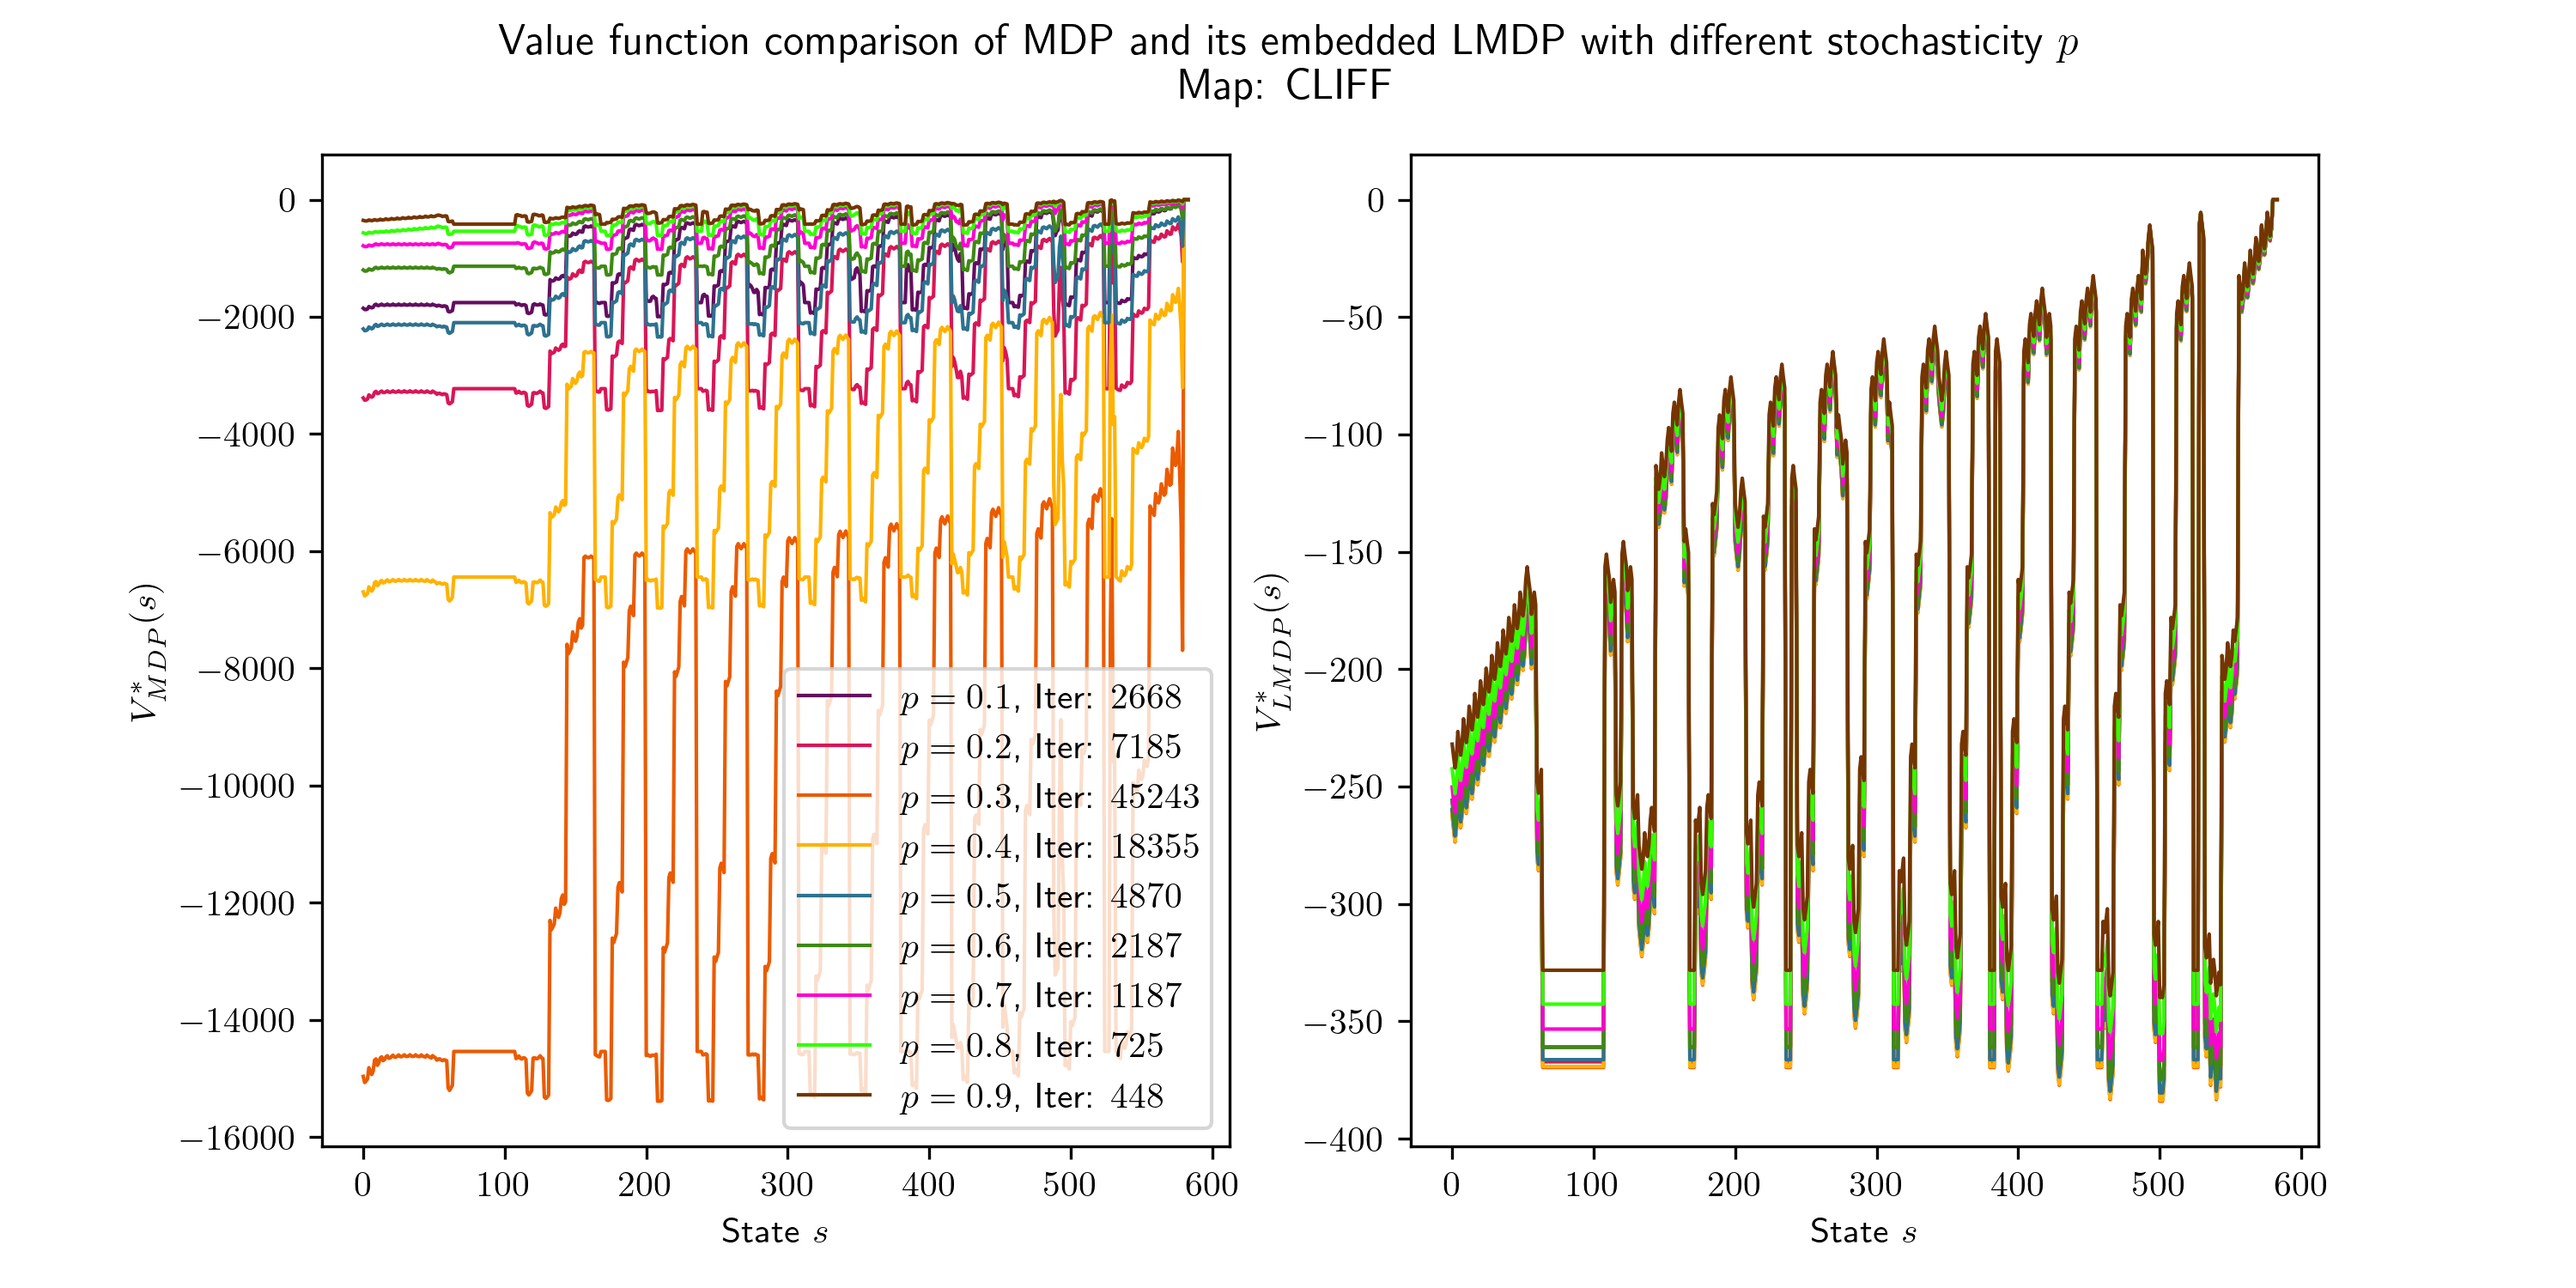
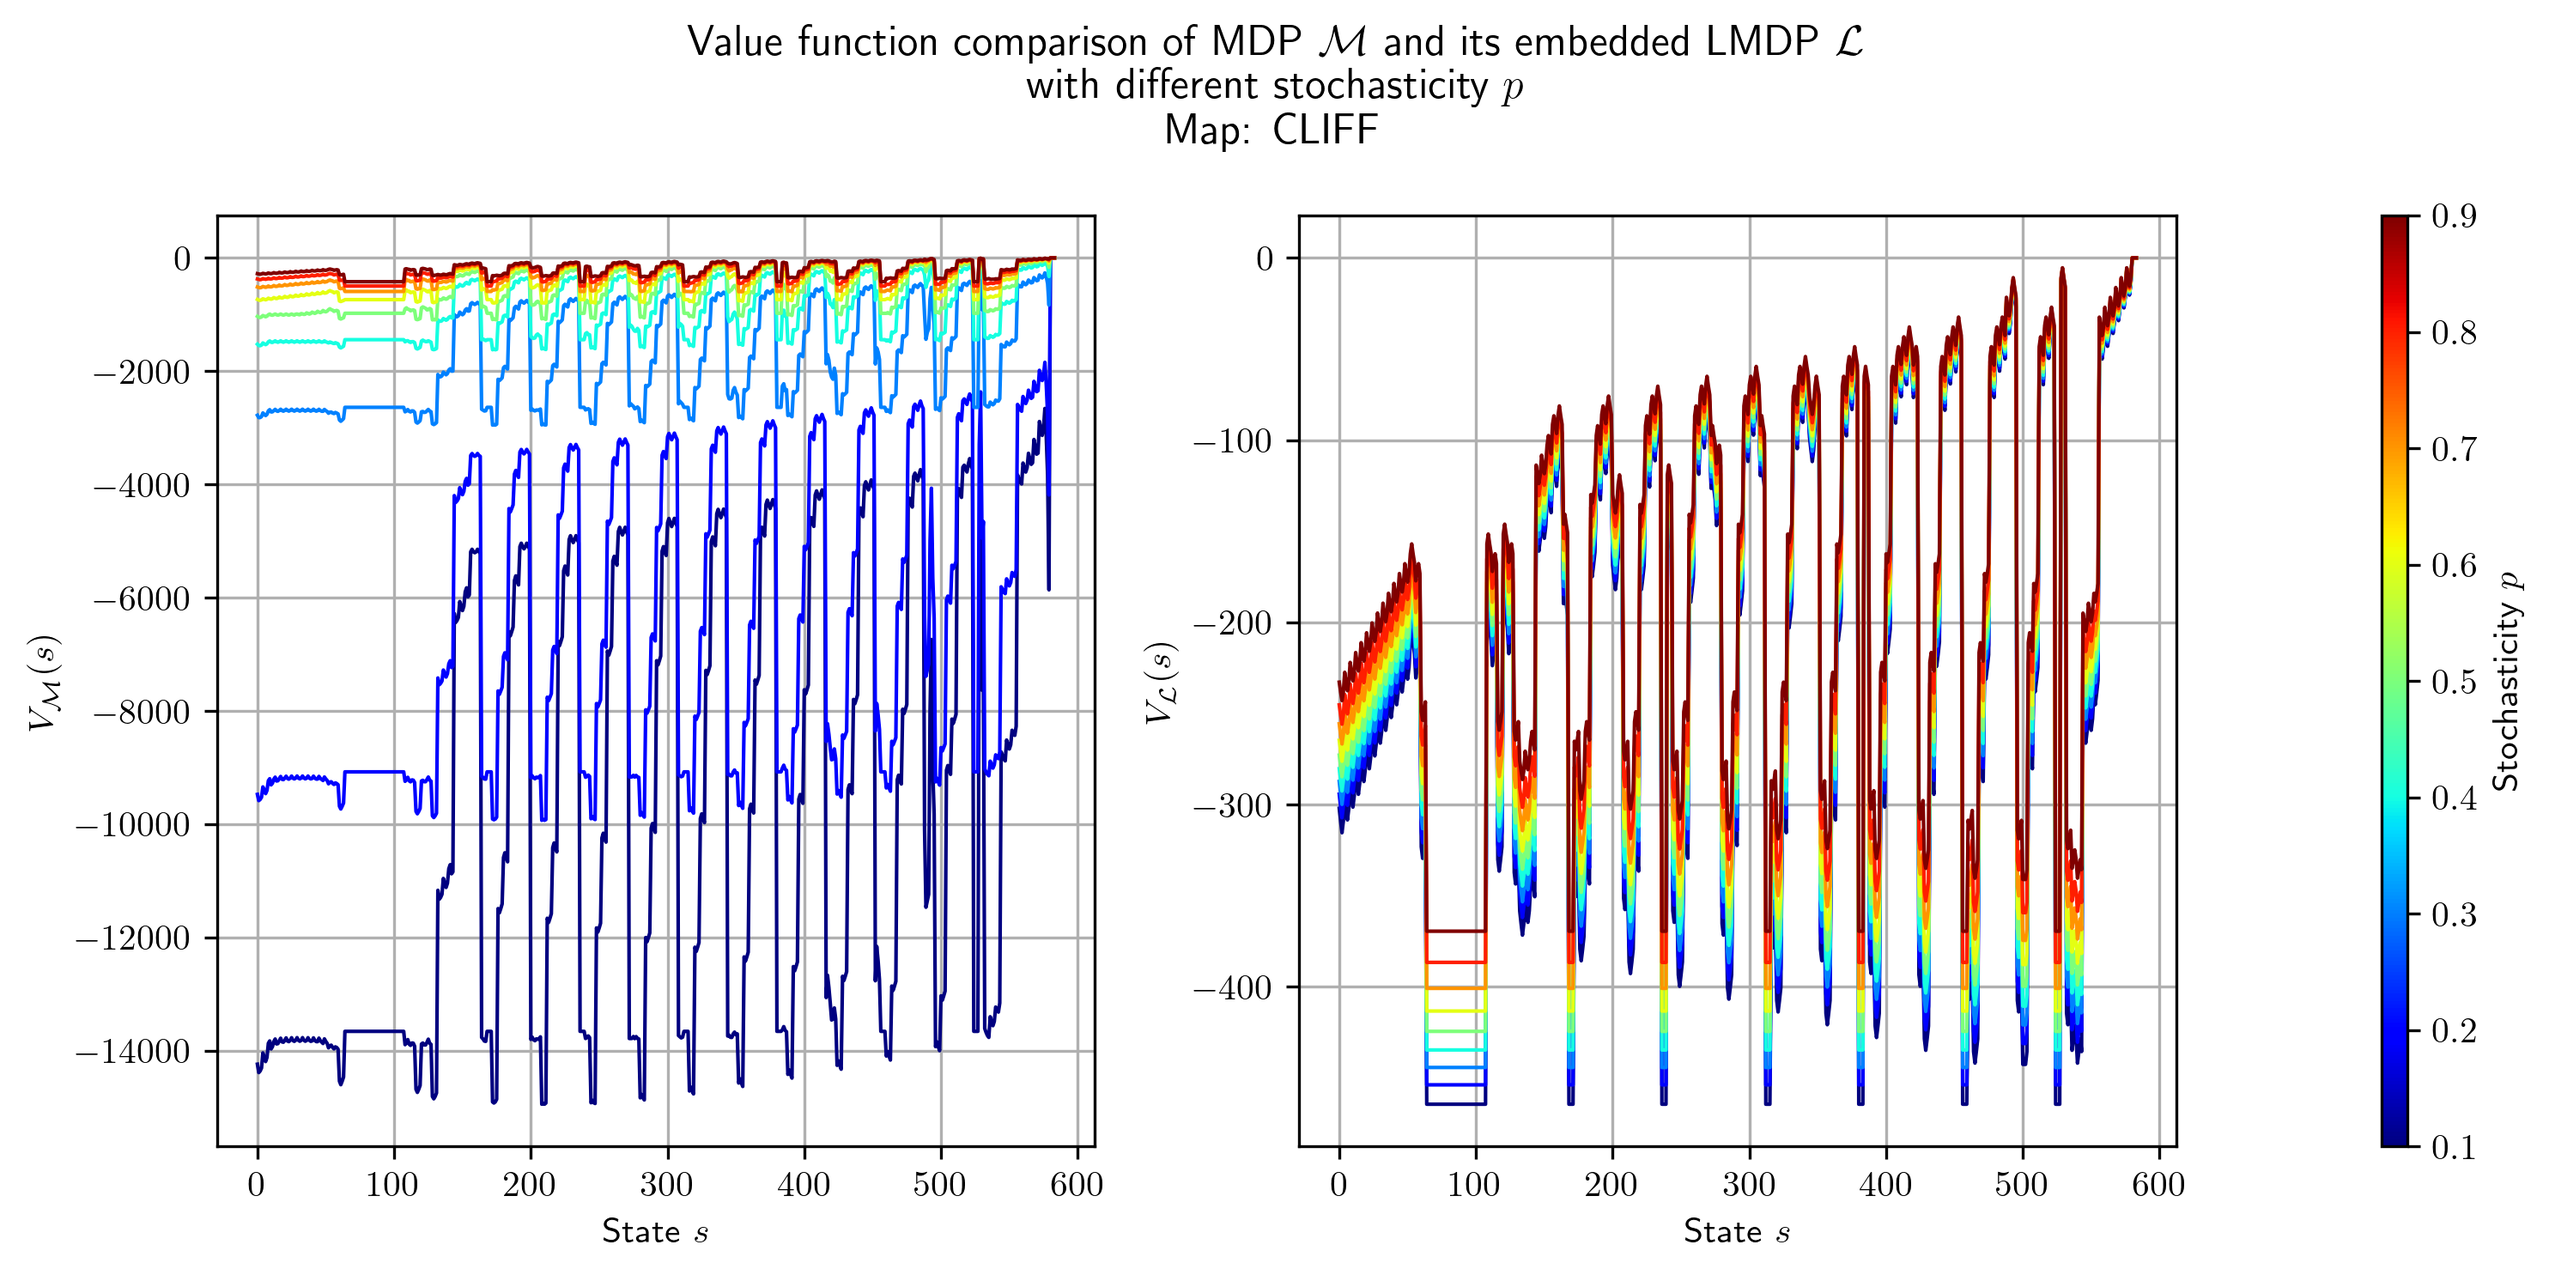
Changed color of stochasticity comparison

diff --git a/utils/experiments.py b/utils/experiments.py
@@ -2,6 +2,7 @@ import matplotlib.cm as cm
 from matplotlib.colors import Normalize
 import matplotlib.pyplot as plt
 import matplotlib.patches as patches
+from matplotlib.colorbar import ColorbarBase
 import numpy as np
 from custom_palette import CustomPalette
 from domains.minigrid_env import MinigridMDP, MinigridLMDP, MinigridLMDP_TDR
@@ -139,14 +140,19 @@ def compare_value_function_by_stochasticity(map: Map, save_fig: bool = True):
     - map (optional): The environment map, if applicable.
     - grid_size (int, default=3): The size of the grid for the MDP environment.
     """
-    palette = CustomPalette()
     map_name = map.name
     
     plt.rcParams.update({"text.usetex": True})
-    fig, axes = plt.subplots(1, 2, figsize=(10, 5))
-    linewidth = 0.5
+    fig, axes = plt.subplots(1, 3, figsize=(10, 5), gridspec_kw={"width_ratios": [1, 1, 0.03]})
+    ax_mdp, ax_lmdp, ax_cbar = axes
+    
+    linewidth = 0.6
+    cmap = cm.get_cmap("jet")
+    norm = Normalize(vmin=0.1, vmax=0.9)
 
-    for i, stochasticity in enumerate(np.arange(0.1, 1.0, 0.1)):
+    for stochasticity in np.arange(0.1, 1.0, 0.1):
+        color = cmap(norm(stochasticity))
+        
         mdp = MinigridMDP(
             map=map,
             allowed_actions=MinigridActions.get_actions(),
@@ -156,19 +162,28 @@ def compare_value_function_by_stochasticity(map: Map, save_fig: bool = True):
         mdp.compute_value_function()
         embedded_lmdp, _ = mdp.to_LMDP()
         embedded_lmdp.compute_value_function()
-        axes[0].plot([i for i in range(mdp.num_states)], mdp.V, label=f"$p = {round(stochasticity, 1)}$, Iter: ${mdp.stats.iterations}$", linewidth=linewidth, color=palette[i])
-        axes[1].plot([i for i in range(embedded_lmdp.num_states)], embedded_lmdp.V, linewidth=linewidth, color=palette[i])
+        
+        ax_mdp.plot(range(mdp.num_states), mdp.V, linewidth=linewidth, color=color)
+        ax_lmdp.plot(range(embedded_lmdp.num_states), embedded_lmdp.V, linewidth=linewidth, color=color)
     
-    axes[0].set_xlabel("State $s$")
-    axes[0].set_ylabel("$V_{MDP}^*(s)$")
-    axes[0].legend()
-    axes[1].set_xlabel("State $s$")
-    axes[1].set_ylabel("$V_{LMDP}^*(s)$")
+    # Format plots
+    ax_mdp.grid()
+    ax_mdp.set_xlabel("State $s$")
+    ax_mdp.set_ylabel("$V_{\\mathcal{M}}(s)$")
     
-    plt.suptitle(f"Value function comparison of MDP and its embedded LMDP with different stochasticity $p$\nMap: {map_name}")
+    ax_lmdp.grid()
+    ax_lmdp.set_xlabel("State $s$")
+    ax_lmdp.set_ylabel("$V_{\\mathcal{L}}(s)$")
     
+    # Add colorbar
+    cb = ColorbarBase(ax_cbar, cmap=cmap, norm=norm)
+    cb.set_label("Stochasticity $p$", rotation=90)
+
+    plt.suptitle(f"Value function comparison of MDP $\\mathcal{{M}}$ and its embedded LMDP $\\mathcal{{L}}$\nwith different stochasticity $p$\nMap: {map_name}")
+    
+    plt.tight_layout()
     if save_fig:
-        plt.savefig(f"assets/stochasticity_comparison_{map_name}.png", dpi=300)
+        plt.savefig(f"assets/stochasticity_comparison_{map_name.replace(' ', '_')}.png", dpi=300, bbox_inches="tight")
     else:
         plt.show()
 
